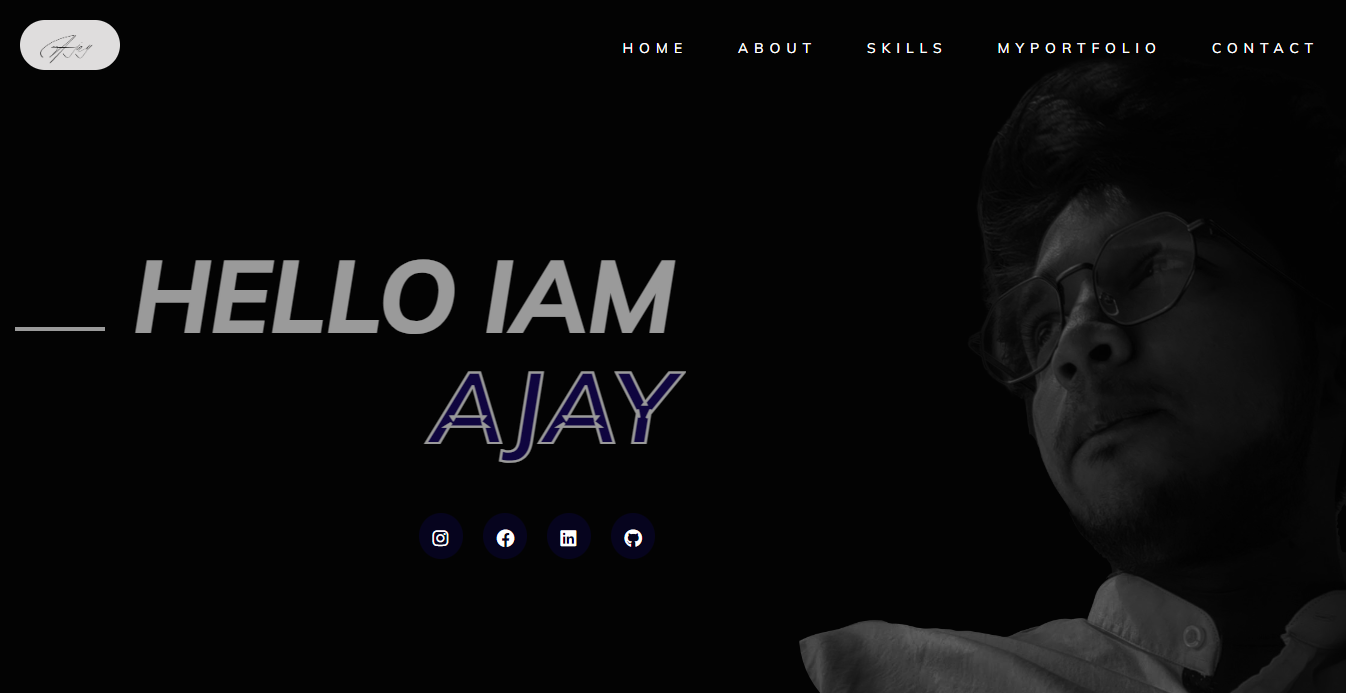
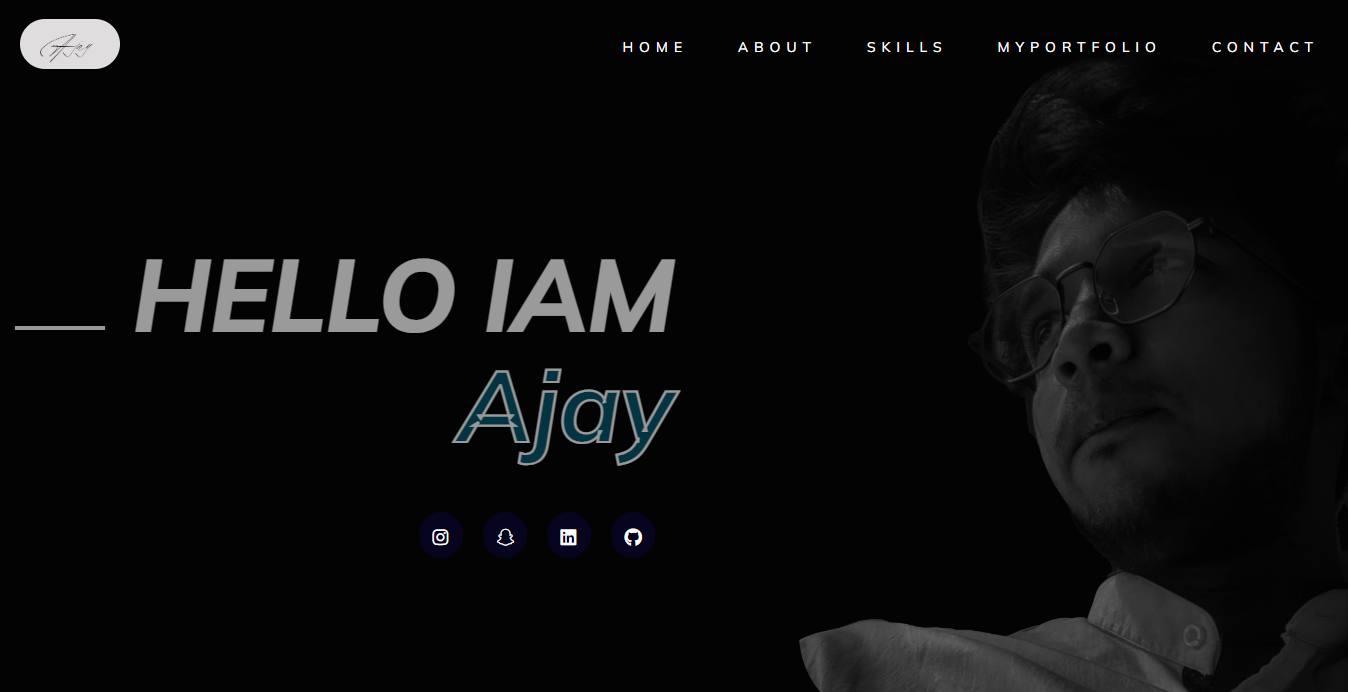
.added

diff --git a/projects.html b/projects.html
@@ -6,31 +6,128 @@
     <meta name="viewport" content="width=device-width, initial-scale=1.0">
     <link rel="preconnect" href="https://fonts.googleapis.com">
     <link rel="preconnect" href="https://fonts.gstatic.com" crossorigin>
-    <link rel="stylesheet" href="resp.css">
     <link href="https://fonts.googleapis.com/css2?family=Mulish:ital,wght@0,200;0,300;0,500;0,600;0,800;1,200;1,300;1,400;1,600;1,700;1,800;1,900&display=swap" rel="stylesheet">
-    <script src="https://kit.fontawesome.com/f541879a4a.js" crossorigin="anonymous"></script>
     <link rel="stylesheet" href="style.css">
+    <script src="https://kit.fontawesome.com/f541879a4a.js" crossorigin="anonymous"></script>
+    <link rel="stylesheet" href="resp.css">
     <title>AJAY</title>
 </head>
-<body>
+<body style="background-color: #000000;">
     <!-- header -->
-    <header>
-        <div class="navigation">
+    <header >
+        <div class="navigation" id="hero">
             <div class="logo">
                 <h1><a href="index.html"><img src="./image/Ajay signature (2).png" alt="logo"></a></h1>
             </div>
             <div class="menu">
-                <ul>
+                <ul class="menu-bar">
                     <li><a href="index.html">Home</a></li>
-                    <li><a href="./index.html">About</a></li>
-                    <li><a href="./index.html">Skills</a></li>
-
-                    <li><a href="index.html">Myportfolio</a></li>
-                    <li><a href="index.html">Contact</a></li>
+                    <li><a href="index.html#about">About</a></li>
+                    <li><a href="index.html#skills">Skills</a></li>
+                    <li><a href="index.html#My-projects">Myportfolio</a></li>
+                    <li><a href="index.html#contact">Contact</a></li>
                 </ul>
+
+                <div class="hamburger">
+                    <div id="hamburger" class="icon-ham" style="color:#fff" class="icon"><i class="fas fa-hamburger"></i></div>
+                    <ul id="ham-nav" class="ham-nav">
+                        <li><a href="#">Home</a></li>
+                        <li><a href="#about">About</a></li>
+                        <li><a href="#skills">Skills</a></li>
+                        <li><a href="#My-projects">Myportfolio</a></li>
+                        <li><a href="#contact">Contact</a></li>
+                    </ul>
+                </div>
             </div>
         </div>
     </header>
     <!-- header -->
+
+
+    <!-- portfolio -->
+
+
+    <div class="My-projects" id="My-projects">
+        <h1 class="pro-title">PORTFOLIO</h1>
+        <div style="background-color: #000000;" class="divider"></div>
+           
+        <div class="project-index" id="projects-portfolio">
+            <!-- <div class="projects">
+                <img src="./image/lottiebee.png" alt="projects">
+                <div class="link"> 
+                    <h1 class="proj-name">Varal uae</h1>
+                    <a href=""><i class="fa-sharp fa-solid fa-arrow-right"></i></a>
+                </div>
+            </div>
+            <div class="projects">
+                <img src="./image/Varal uae.png" alt="projects">
+                <div class="link">
+                    <h1 class="proj-name">Lottiebee</h1>
+                    <a href=""><i class="fa-sharp fa-solid fa-arrow-right"></i></a>
+                </div>
+            </div>
+            <div class="projects">
+                <img src="./image/Folio.png" alt="projects">
+                <div class="link"> 
+                    <h1 class="proj-name">Folio</h1>
+                    <a href=""><i class="fa-sharp fa-solid fa-arrow-right"></i></a>
+                </div>
+            </div> -->
+            
+    
+        </div>
+     </div>
+    <!-- portfolio -->
+        <!-- .contact section -->
+<div class="contact-sec" id="contact">
+    <h1 class="conct-title">GET IN TOUCH</h1>
+    <div style="background-color: #ffffff;" class="divider"></div>
+    <div class="conct-row">
+        <div class="conct-col-1">
+        <div class="details">
+            <div class="details-col">
+               <a href="#"><i class="fa-solid fa-location-dot"></i> &nbsp; No.4B Jayanagar Chennai 600100</a>
+            </div>
+            <div class="details-col">
+                <a href="#"><i class="fa-solid fa-phone"></i> &nbsp;+91 9884259035</a>
+             </div>
+             <div class="details-col">
+                <a href="#"><i class="fa-solid fa-envelope"></i> &nbsp;ajaykrish212121@gmail.com</a>
+             </div>
+             <div class="details-col">
+                <a href="#"><i class="fa-brands fa-github"></i></i> &nbsp;Git Hub Link</a>
+             </div>
+
+        </div>
+        </div>
+        <div class="conct-col-1" id="contact">
+            <form action="/" class="form-val">
+                
+                <div class="form-name">
+                    <input type="text" class="input" placeholder="Name" id="name">
+                    <input type="tel" class="input" placeholder="Phone" id="number">
+                </div>
+                <br>
+                 
+                <input type="email" placeholder="Email" id="email"><br>
+                
+                <input type="text" placeholder="Message" class="message" id="message"><br>
+    
+                <button class="sbt-btn" id="sbt-btn" onclick="myFunction">Submit</button>
+            </form>
+        </div>
+
+    </div>
+    
+</div>
+
+    <footer>
+        <div class="copyright">
+           <div> Copyright © 2023 Ajay. All Rights Reserved.</div>
+           <div> Terms & Policy Disclaimer</div>
+        </div>
+    </footer>
+
+    <script src="./main.js"></script>
 </body>
 </html>

diff --git a/main.js b/main.js
@@ -1,14 +1,88 @@
+
+const projects =[{
+  image:'./image/puratap.png',
+  name:"Puratap",
+  link: "https://www.puratap.com.au/"
+},{
+  image:'./image/lottiebee.png',
+  name:"Lottiebee",
+  link: "https://ajuajay11.github.io/lottiebee/"
+},{
+image:'./image/Varaluae.png',
+  name:"Varal uae",
+  link: "https://ajuajay11.github.io/project-one/"
+},{
+  image:'./image/auto.png',
+  name:"Infinity Automobiles",
+  link: "https://infinityautomobiles.com/"
+},{
+  image:'./image/jsconstructions.png',
+  name:"JS Constructions",
+  link: "https://jsconstructionss.com/"
+},{
+  image:'./image/selling..png',
+  name:"Selling.",
+  link: "https://ajuajay11.github.io/project-two/"
+},{
+  image:'./image/Folio.png',
+  name:"Infinity Automobiles",
+  link: "https://ajuajay11.github.io/project-three/"
+},{
+  image:'./image/nugenica.png',
+  name:"Nugenica",
+  link: "https://nugenica.in/"
+},{
+  image:'./image/physiocare.png',
+  name:"Sivam Physiocare",
+  link: "https://sivamphysiocare.com/"
+},
+{
+    image:'./image/portfolio.png',
+    name:"Personal Portfolio",
+    link: "https://ajuajay11.github.io/myPortfolio/index.html"
+},{
+    image:'./image/kelly.png',
+    name:"Kelly",
+    link: "https://ajuajay11.github.io/project-four/"
+},{
+  image:'./image/riyadvi.png',
+  name:"Riyadvi",
+  link: "https://riyadvisoftwaretechnologies.com/"
+},{
+  image:'./image/sterling.png',
+  name:"Sterlingvalves & Controls",
+  link: "https://sterlingvalvesandcontrols.in/"
+}];
+
+let value ="";
+
+projectName=document.getElementById("projects-portfolio");
+
+projects.map((e)=>{
+
+  value = value +`
+  <div class="projects">
+       <img src=${e.image}>
+      <div class="link"> 
+          <h1 class="proj-name">${e.name}</h1>
+          <a href="${e.link}" target="blank"><i class="fa-sharp fa-solid fa-arrow-right"></i></a>
+      </div>
+  </div>`;
+  projectName.innerHTML= value;
+});
+
+
+
+
 var bottomTop = document.getElementById('myBtn');
 
-window.onscroll= ()=> {
+window.onscroll = ()=> {
     if (document.documentElement.scrollTop > 500) {
         bottomTop.style.display = "block";
       } else {
         bottomTop.style.display = "none";
-      }
-    
+    }
 }
-
 
 
 var hamBurger = document.getElementById('hamburger');
@@ -22,4 +96,37 @@ hamBurger.addEventListener("click", () =>{
   else{
     show.style.display="none"
   }
-})
+});
+
+
+
+
+
+
+
+
+// <!-- <div class="project-index">
+//             <div class="projects">
+//                 <img src="./image/lottiebee.png" alt="projects">
+//                 <div class="link"> 
+//                     <h1 class="proj-name">Varal uae</h1>
+//                     <a href=""><i class="fa-sharp fa-solid fa-arrow-right"></i></a>
+//                 </div>
+//             </div>
+//             <div class="projects">
+//                 <img src="./image/Varal uae.png" alt="projects">
+//                 <div class="link">
+//                     <h1 class="proj-name">Lottiebee</h1>
+//                     <a href=""><i class="fa-sharp fa-solid fa-arrow-right"></i></a>
+//                 </div>
+//             </div>
+//             <div class="projects">
+//                 <img src="./image/Folio.png" alt="projects">
+//                 <div class="link"> 
+//                     <h1 class="proj-name">Folio</h1>
+//                     <a href=""><i class="fa-sharp fa-solid fa-arrow-right"></i></a>
+//                 </div>
+//             </div>
+            
+    
+//         </div> -->

diff --git a/index.html b/index.html
@@ -25,10 +25,10 @@
                     <li><a href="#">Home</a></li>
                     <li><a href="#about">About</a></li>
                     <li><a href="#skills">Skills</a></li>
-                    
                     <li><a href="#My-projects">Myportfolio</a></li>
                     <li><a href="#contact">Contact</a></li>
                 </ul>
+
                 <div class="hamburger">
                     <div id="hamburger" class="icon-ham" style="color:#fff" class="icon"><i class="fas fa-hamburger"></i></div>
                     <ul id="ham-nav" class="ham-nav">
@@ -48,7 +48,7 @@
     <div class="hero">
         <div class="hero-row">
             <div class="col1">
-                <h1><div class="divider-line"></div>HELLO IAM</h1><SPAN><h1 class="my-name">AJAY</h1></SPAN>
+                <h1><div class="divider-line"></div>HELLO IAM</h1><SPAN><h1 class="my-name">Ajay</h1></SPAN>
                 <div class="social-icons">
                     <a href="#"><i class="fa-brands fa-instagram"></i></a>
                     <a href="#"><i class="fa-brands fa-snapchat"></i></a>
@@ -72,8 +72,7 @@
              appealing and user-friendly websites using WordPress, HTML5, CSS, JavaScript,
             Bootstrap 5, and PHP. Skilled in SEO, with a focus on delivering high-quality and effective solutions
             for clients. Adept at collaborating with design and development teams to bring projects from
-            concept to completion. Currently learning ReactJS to expand skillset.
-        </p>
+            concept to completion. Currently learning ReactJS to expand skillset.</p>
         
         <a class="cv-btn" href="image/Ajaykrishnan Resume.pdf" download="">Download CV</a>
     </div>
@@ -131,7 +130,7 @@
             </div>
         </div>
         <div class="projects">
-            <img src="./image/Varal uae.png" alt="projects">
+            <img src="./image/Varaluae.png" alt="projects">
             <div class="link">
                 <h1 class="proj-name">Lottiebee</h1>
                 <a href=""><i class="fa-sharp fa-solid fa-arrow-right"></i></a>
